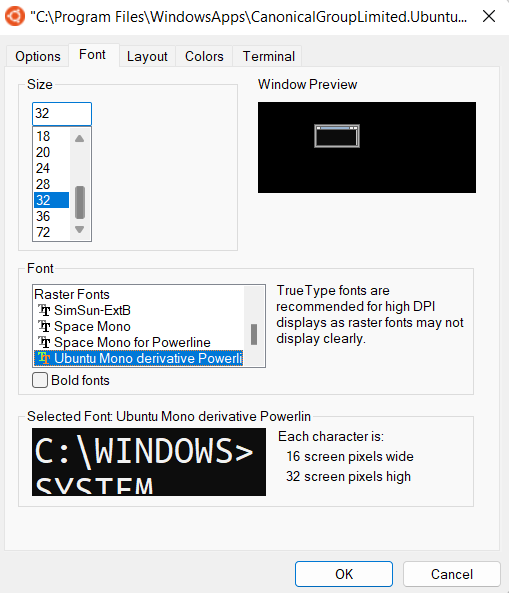
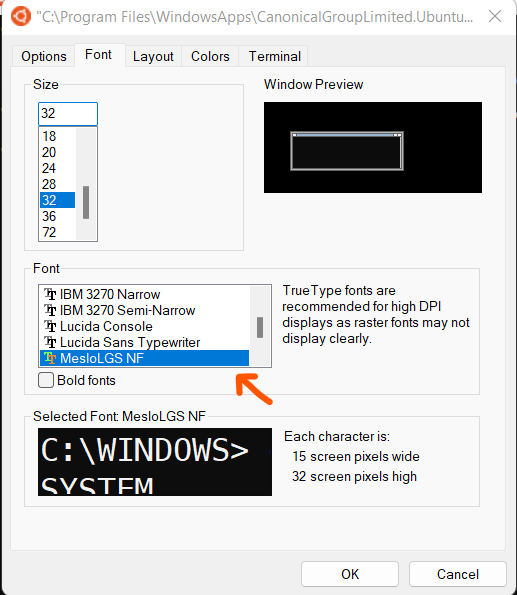
preview

diff --git a/README.md b/README.md
@@ -1,16 +1,11 @@
-# Spicing up your shell using ZSH
+# Spicing up your shell using ZSH ✨
 
 Welcome to CSESoc Education's guide on Customising your Shell! 
 
 Here you will learn how to customise your WSL shell using tools like `oh-my-zsh`.
 
-> Your terminal before this guide 🤮
 
-![Winver Example](/assets/bad-terminal.png "bad-terminal")
-
-> Your terminal after this guide 🤩
-
-![Winver Example](/assets/cool-terminal.png "cool-terminal")
+![Winver Example](/assets/img-11.png "bad-terminal")
 
 ## What is ZSH & Why use ZSH? 🤔
 ZSH is an extended version of Bash, providing the same functionality of Bash, but also with plenty of new features, and support for plugins and themes.
@@ -23,7 +18,7 @@ Some notable improvements over Bash include:
 ## What is Oh-My-ZSH? 🧠
 Oh-my-zsh is an open-source and community driven framework for managing a ZSH configuration. It is the tool that allows us to install functions, plugins and themes onto our ZSH shell.
 
-## Installing ZSH
+## Installing ZSH 🛠
 > If you are on macOS you should have `zsh` installed already
 
 > If you are on Windows, make sure you have followed our WSL Setup Guide before continuing!
@@ -37,7 +32,7 @@ sudo apt-get install zsh
 
 ![Winver Example](/assets/img-1.png "img-1")
 
-## Installing oh-my-zsh
+## Installing oh-my-zsh 🛠
 1. Make sure you have `git` installed. In the **WSL Terminal** type the following command and press **Enter**
 
 ```
@@ -52,7 +47,7 @@ sh -c "$(curl -fsSL https://raw.githubusercontent.com/robbyrussell/oh-my-zsh/mas
 
 ![Winver Example](/assets/img-2.png "img-2")
 
-## Making ZSH our default shell
+## Making ZSH our default shell 💡
 
 1. In the **WSL Terminal** type the following command and press **Enter**
 
@@ -64,40 +59,33 @@ chsh -s $(which zsh)
 
 2. Close WSL and reopen it again. 
 
-## Installing Powerline10k Fonts
-1. Make sure `git` is installed on your Windows machine (**not WSL**).
-> You can download `git` for Windows [here](https://git-scm.com/download/win).
+## Installing Powerline10k Fonts 🦾
+1. Navigate to this website [here](https://github.com/romkatv/powerlevel10k#manual-font-installation).
+2. Download `MesloLGS NF regular.ttf`
+![Winver Example](/assets/img-12.png "img-12")
+3. Open `MesloLGS NF regular.ttf` and select **Install**
+![Winver Example](/assets/img-13.png "img-13")
 
-2. Open **Start** on Windows
-3. Search for **terminal**
-![Terminal](/assets/img-3.png "img-3")
-4. In the **Windows Terminal** type the following command and press **Enter**
+## Changing the theme of `oh-my-zsh` 🎨
+1. In the **WSL Terminal** type the following command and press **Enter** to install the PowerLevel10k theme.
 ```
-git clone https://github.com/powerline/fonts.git
+git clone --depth=1 https://github.com/romkatv/powerlevel10k.git ${ZSH_CUSTOM:-~/.oh-my-zsh/custom}/themes/powerlevel10k
 ```
-![Terminal](/assets/img-4.png "img-4")
-5. In the same  **Windows Terminal**, navigate to the newly cloned `fonts` directory by typing the following command and pressing **Enter**
+2. Type the following command and press **Enter** to edit the `.zshrc` file to change the theme.
 ```
-cd fonts
+nano ~/.zshrc
 ```
-6. In the same  **Windows Terminal**, install the fonts by typing the following command and pressing **Enter**
+3. Change the `ZSH_THEME` to `"powerlevel10k/powerlevel10k"`.
 ```
-.\install.ps1
-```
-
-## Changing the theme of `oh-my-zsh`
-1. Enter the following command and press **Enter** to edit the `.zshrc` file to change the theme.
-2. Change the `ZSH_THEME` to `"agnoster"`
-```
-ZSH_THEME="agnoster"
+ZSH_THEME="powerlevel10k/powerlevel10k"
 ```
 ![Terminal](/assets/img-5.png "img-5")
 
 > Note: Lines that start with `#` are comments and will be ignored by `zsh`.
 
-3. Close WSL and open it again.
+4. Close WSL and open it again.
 
-## Changing the font to `PowerLevel10k`
+## Changing the font to `PowerLevel10k` 🖌
 When you reopen WSL you might notice your terminal looks broken; something like this:
 ![Terminal](/assets/img-6.png "img-6")
 This is because we haven't loaded the PowerLevel10k fonts for use in WSL. 
@@ -106,8 +94,10 @@ This is because we haven't loaded the PowerLevel10k fonts for use in WSL.
 ![Terminal](/assets/img-7.png "img-7")
 2. Click on `Properties`
 3. Click on `Fonts`
-4. Select `Ubuntu Mono derivative Powerline` in the fonts menu
+4. Select `MesloLGS NF` in the fonts menu
 ![Terminal](/assets/img-8.png "img-8")
 
-And voila! Your terminal should be spice up!
+And voila! Your terminal should be spiced up!
 ![Terminal](/assets/img-9.png "img-9")
+
+![Terminal](/assets/img-10.png "img-10")
